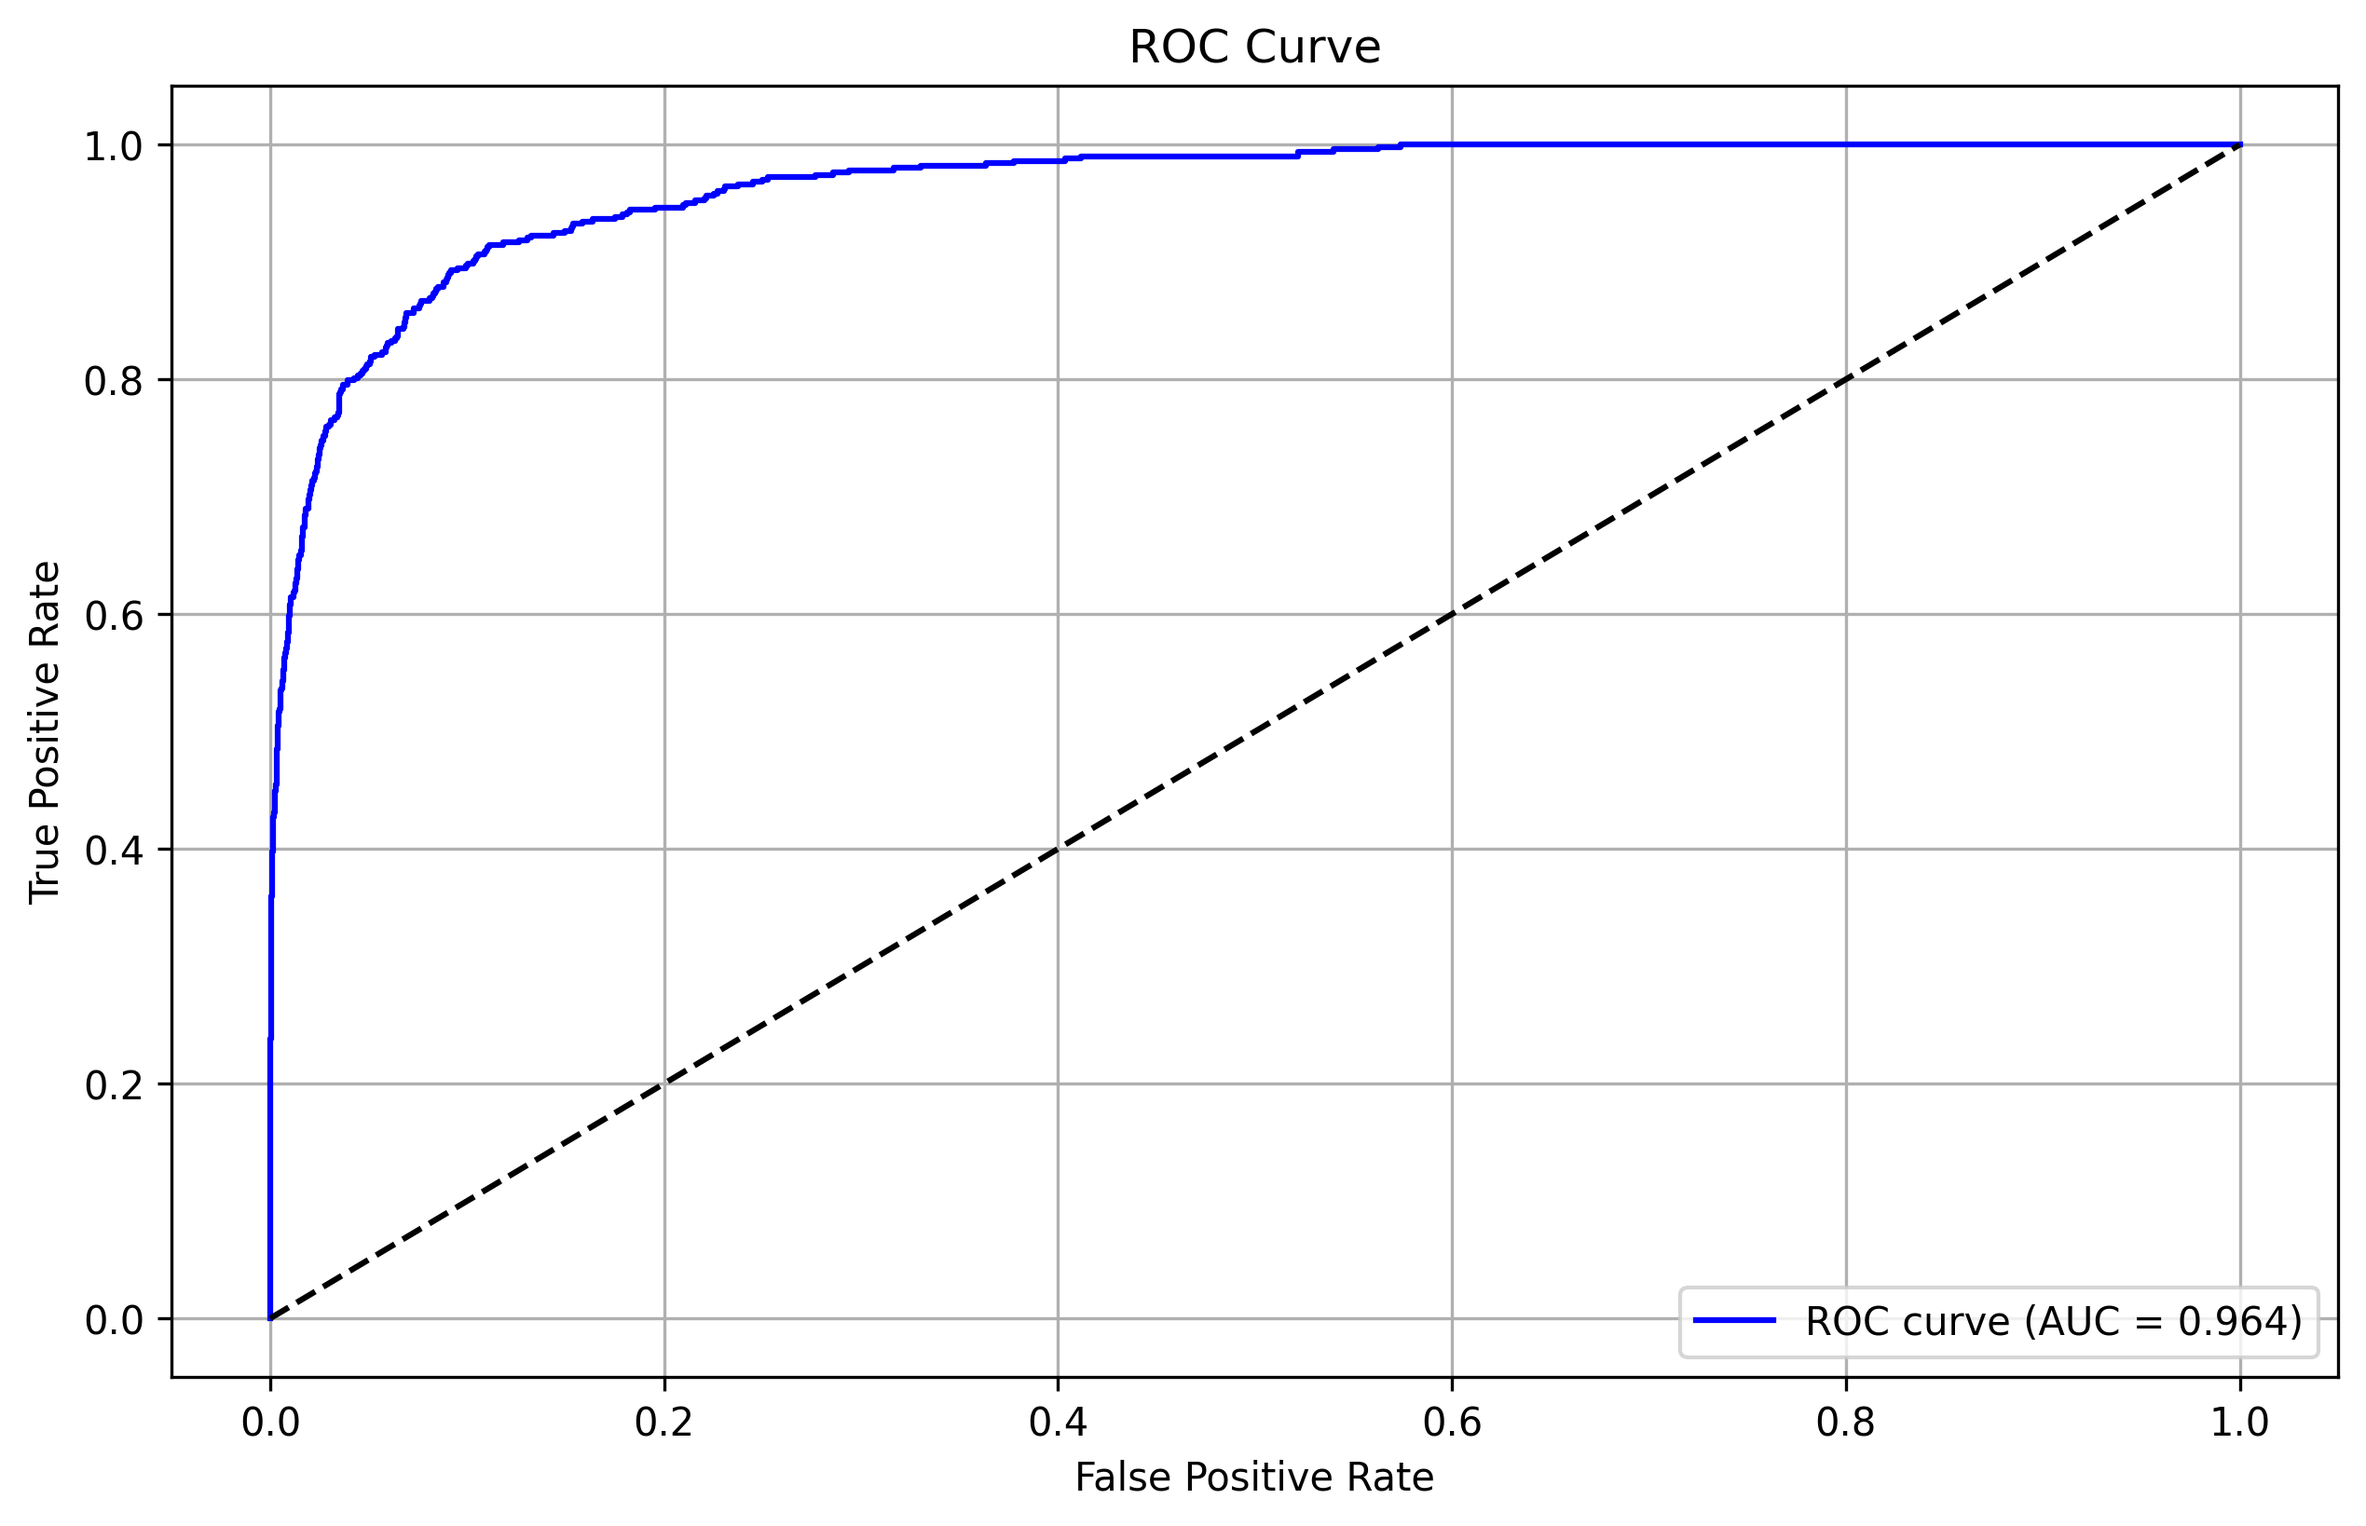
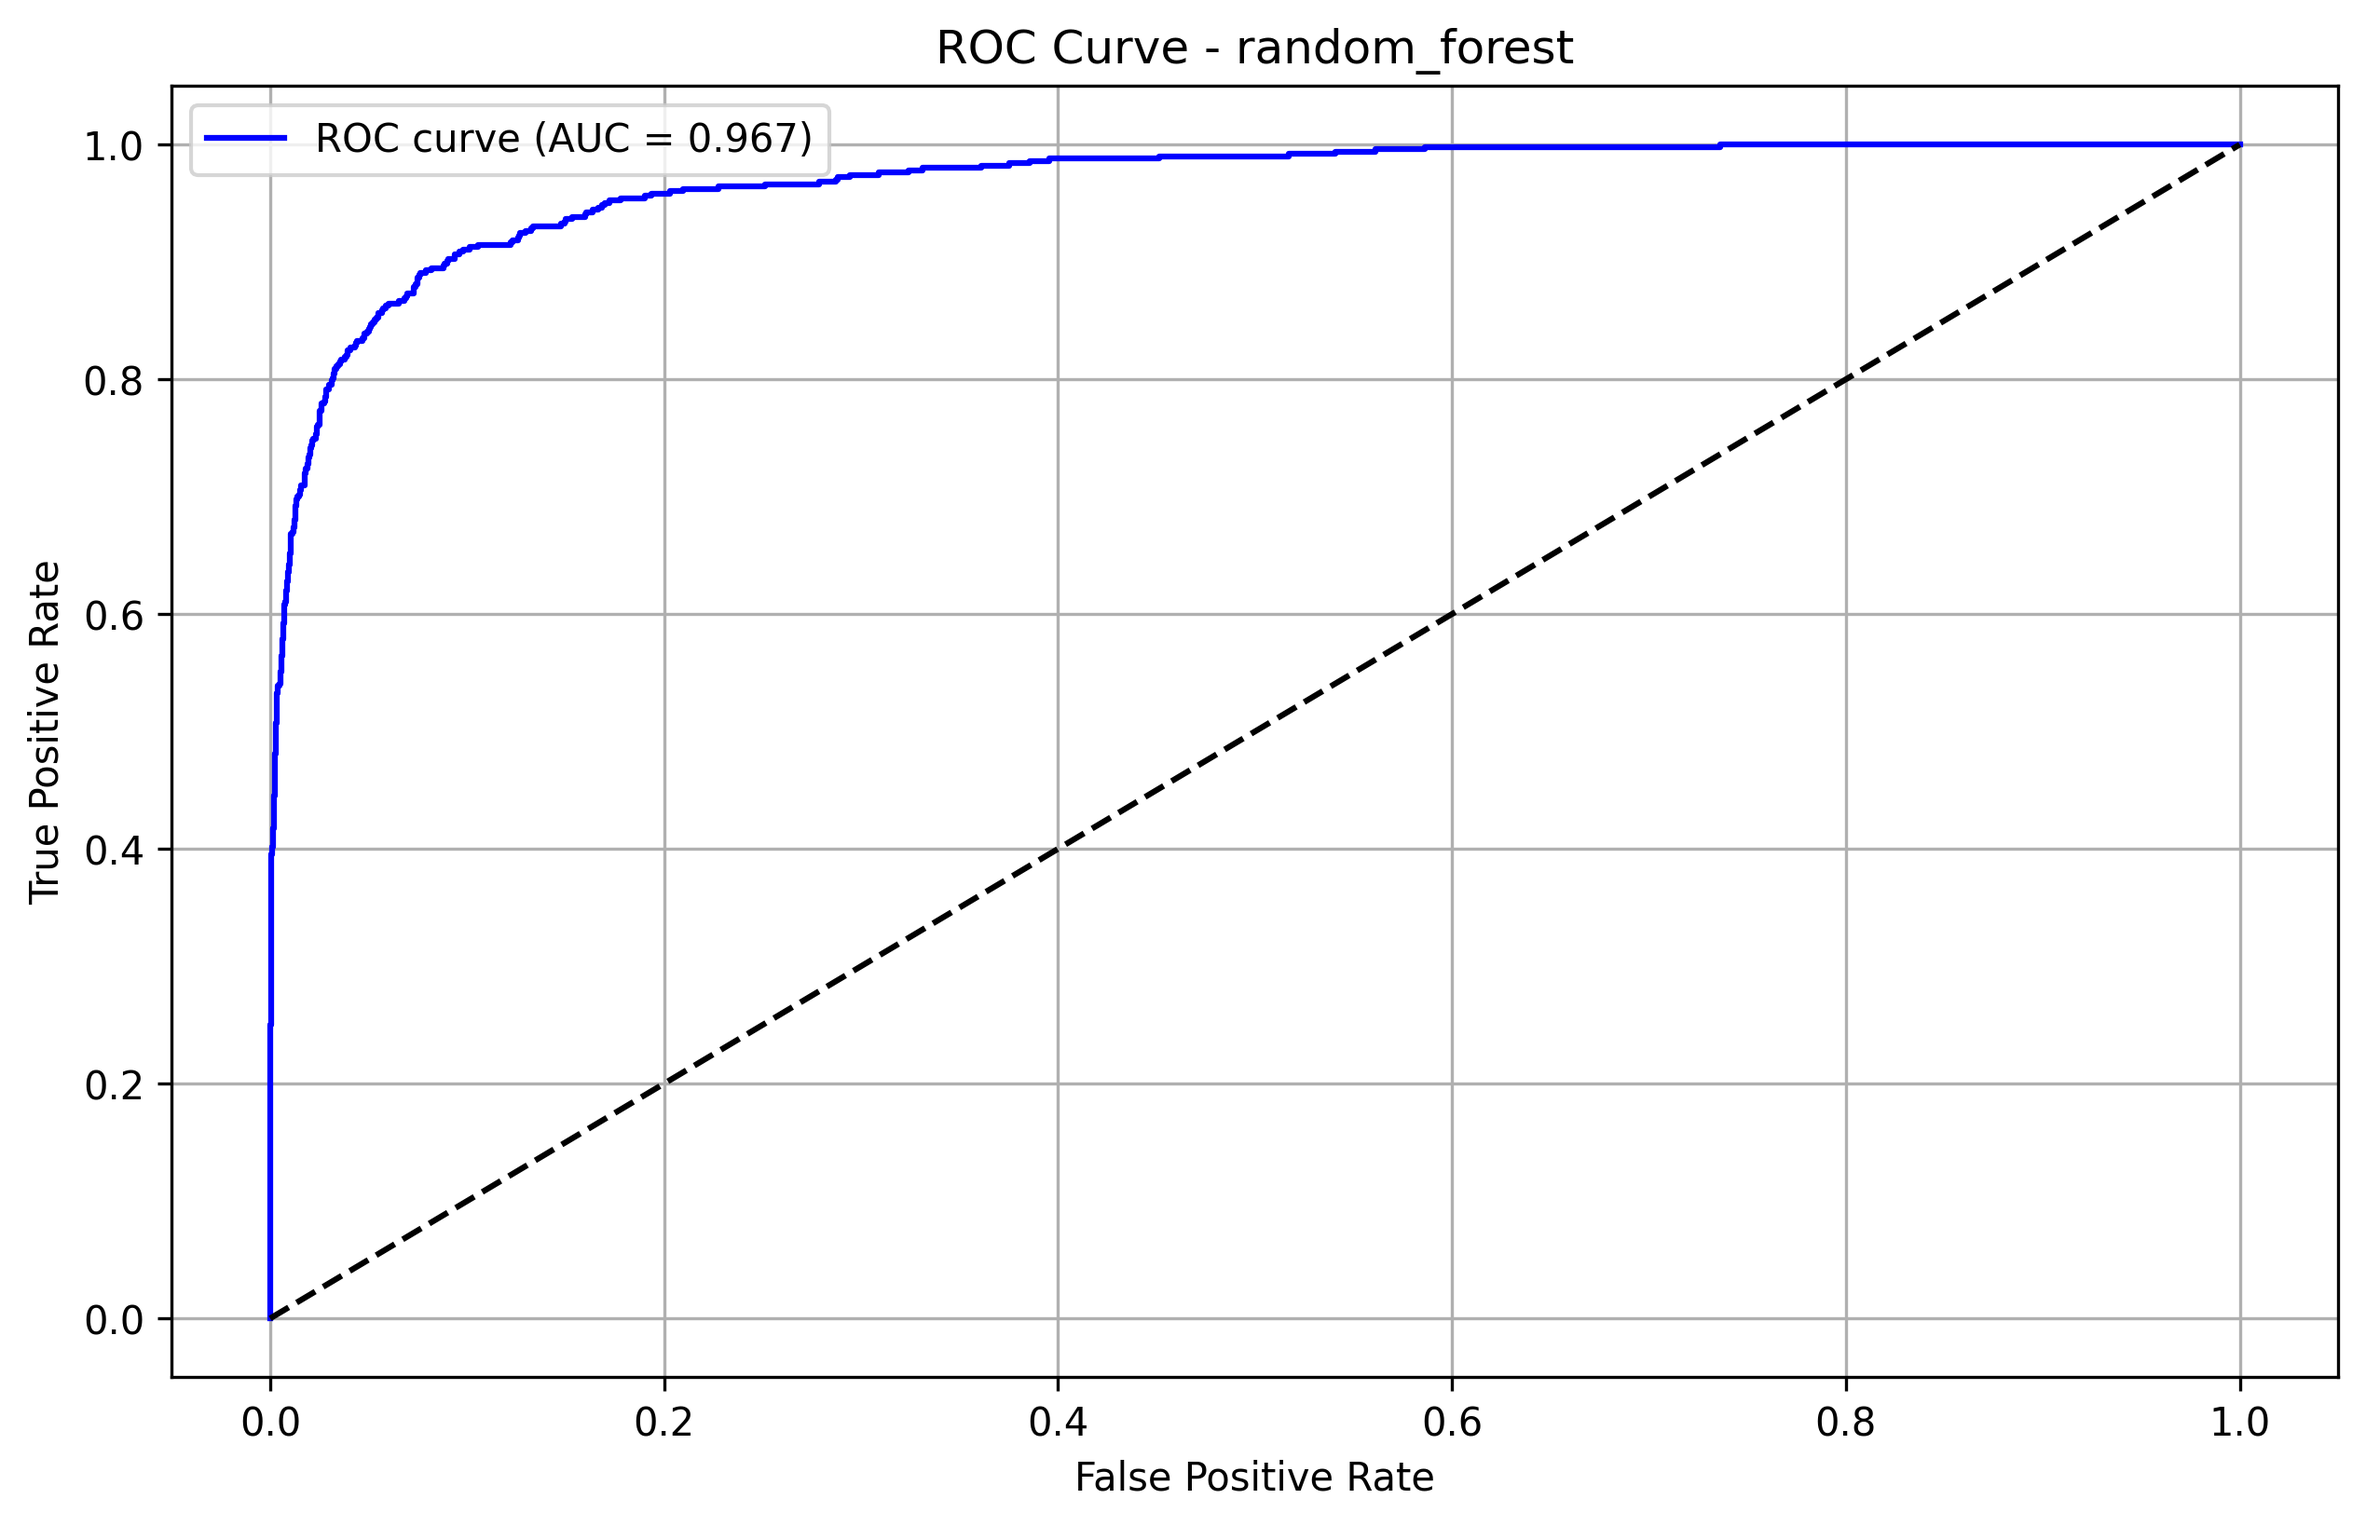
Refactor threshold optimization to evaluate multiple models and return the best one

diff --git a/model/evaluate_optimized_models.py b/model/evaluate_optimized_models.py
@@ -146,33 +146,65 @@ def plot_confusion_matrices(metrics):
     plt.show()
 
 
-def optimize_threshold(model, X_test, y_test):
-    """Find optimal threshold to maximize F1 score."""
-    # Get probability predictions
-    try:
-        y_probs = model.predict_proba(X_test)[:, 1]
+def optimize_threshold(models, metrics, X_test, y_test):
+    """Find optimal threshold to maximize F1 score for each model and return the best."""
+    best_threshold = 0.5
+    best_f1 = 0.0
+    best_model_name = None
+    best_model = None
+    
+    # Try each model to find the one with the best optimized threshold
+    for model_name, model in models.items():
+        try:
+            # Get probability predictions
+            y_probs = model.predict_proba(X_test)[:, 1]
 
-        # Calculate precision, recall, and F1 for different thresholds
-        precisions, recalls, thresholds = precision_recall_curve(y_test, y_probs)
+            # Calculate precision, recall, and F1 for different thresholds
+            precisions, recalls, thresholds = precision_recall_curve(y_test, y_probs)
 
-        # Calculate F1 scores for each threshold
-        f1_scores = 2 * (precisions * recalls) / (precisions + recalls + 1e-9)
+            # Calculate F1 scores for each threshold
+            f1_scores = 2 * (precisions * recalls) / (precisions + recalls + 1e-9)
 
-        # Find threshold with max F1
-        optimal_idx = np.argmax(f1_scores)
-        optimal_threshold = thresholds[optimal_idx] if optimal_idx < len(thresholds) else 0.5
-        best_f1 = f1_scores[optimal_idx]
+            # Find threshold with max F1
+            optimal_idx = np.argmax(f1_scores)
+            optimal_threshold = thresholds[optimal_idx] if optimal_idx < len(thresholds) else 0.5
+            model_best_f1 = f1_scores[optimal_idx]
+            
+            print(f"Model {model_name}: Optimal threshold: {optimal_threshold:.3f} with F1 score: {model_best_f1:.3f}")
+            
+            # Update if this is the best model+threshold combination
+            if model_best_f1 > best_f1:
+                best_f1 = model_best_f1
+                best_threshold = optimal_threshold
+                best_model_name = model_name
+                best_model = model
+                
+        except Exception as e:
+            print(f"Error optimizing threshold for {model_name}: {e}")
+            continue
+    
+    if best_model is not None:
+        print(f"\nBest model found: {best_model_name} with optimal threshold: {best_threshold:.3f} and F1 score: {best_f1:.3f}")
         
-        print(f"Optimal threshold: {optimal_threshold:.3f} with F1 score: {best_f1:.3f}")
-
-        # Plot precision-recall curve
+        # Calculate error counts for best model
+        y_probs = best_model.predict_proba(X_test)[:, 1]
+        y_pred = (y_probs >= best_threshold).astype(int)
+        fp = np.sum((y_test == 0) & (y_pred == 1))
+        fn = np.sum((y_test == 1) & (y_pred == 0))
+        print(f"At threshold={best_threshold:.3f}: False Positives: {fp}, False Negatives: {fn}")
+        
+        # Plot precision-recall curve for best model
+        precisions, recalls, thresholds = precision_recall_curve(y_test, y_probs)
+        f1_scores = 2 * (precisions * recalls) / (precisions + recalls + 1e-9)
+        optimal_idx = np.argmax(f1_scores)
+        
         plt.figure(figsize=(10, 6))
         plt.plot(recalls, precisions, 'b-', label='Precision-Recall curve')
         plt.plot(recalls[optimal_idx], precisions[optimal_idx], 'ro',
-                 label=f'Optimal threshold: {optimal_threshold:.3f}, F1: {best_f1:.3f}')
+                 label=f'Optimal threshold: {best_threshold:.3f}, F1: {best_f1:.3f}')
         plt.xlabel('Recall')
         plt.ylabel('Precision')
-        plt.title('Precision-Recall Curve - Threshold Optimization')
+        plt.title(f'Precision-Recall Curve - {best_model_name}')
         plt.legend(loc='best')
         plt.grid(True)
         plt.savefig(SAVE_PATH / "threshold_optimization.png", dpi=300, bbox_inches='tight')
@@ -187,26 +219,19 @@ def optimize_threshold(model, X_test, y_test):
         plt.plot([0, 1], [0, 1], 'k--')
         plt.xlabel('False Positive Rate')
         plt.ylabel('True Positive Rate')
-        plt.title('ROC Curve')
+        plt.title(f'ROC Curve - {best_model_name}')
         plt.legend(loc='best')
         plt.grid(True)
         plt.savefig(SAVE_PATH / "roc_curve.png", dpi=300, bbox_inches='tight')
         plt.show()
-
-        # Calculate error counts at optimal threshold
-        y_pred = (y_probs >= optimal_threshold).astype(int)
-        fp = np.sum((y_test == 0) & (y_pred == 1))
-        fn = np.sum((y_test == 1) & (y_pred == 0))
-        print(f"At threshold={optimal_threshold:.3f}: False Positives: {fp}, False Negatives: {fn}")
-
-        return optimal_threshold, best_f1
-
-    except Exception as e:
-        print(f"Error optimizing threshold: {e}")
-        return 0.5, None
+        
+        return best_threshold, best_f1, best_model_name, best_model
+    else:
+        print("Could not find optimal threshold for any model")
+        return 0.5, None, None, None
 
 
-def demo_model_usage(threshold=0.5):
+def demo_model_usage(threshold=0.5, best_model_name=None, best_f1=None):
     """Demonstrate how to use the best model for prediction with adjustable threshold."""
     print(f"\n=== Model Usage Demo (Threshold: {threshold:.3f}) ===")
 
@@ -217,9 +242,16 @@ def demo_model_usage(threshold=0.5):
     
     # Find best model based on F1 score
     try:
-        best_model_name = max(metrics.items(), key=lambda x: x[1]['f1'])[0]
-        best_model = models.get(best_model_name)
-        best_score = metrics[best_model_name]['f1']
+        # If we have a best model name from threshold optimization, use it
+        if best_model_name and best_model_name in models:
+            best_model = models.get(best_model_name)
+            best_score = best_f1 if best_f1 else metrics[best_model_name]['f1']
+        else:
+            # Fall back to the original method
+            best_model_name = max(metrics.items(), key=lambda x: x[1]['f1'])[0]
+            best_model = models.get(best_model_name)
+            best_score = metrics[best_model_name]['f1']
+        
         print(f"Best model found: {best_model_name} with F1 score: {best_score:.4f}")
     except (KeyError, ValueError) as e:
         print(f"Error finding best model: {e}")
@@ -369,10 +401,6 @@ def main(custom_threshold=None):
     print("\nPlotting evaluation results...")
     plot_evaluation_results(metrics)
 
-    # Find best model
-    best_model_name = max(metrics.items(), key=lambda x: x[1]['f1'])[0]
-    best_model = models.get(best_model_name)
-
     # Load test data for threshold optimization
     features_path = project_root / "data" / "features_train.csv"
     target_path = project_root / "data" / "train.csv"
@@ -385,13 +413,13 @@ def main(custom_threshold=None):
             y_test = y_df['toxic']
 
             print("\nFinding optimal threshold...")
-            optimal_threshold, best_f1 = optimize_threshold(best_model, X_test, y_test)
+            optimal_threshold, best_f1, best_model_name, best_model = optimize_threshold(models, metrics, X_test, y_test)
             
             # Use custom threshold if provided, otherwise use the optimized one
             threshold = custom_threshold if custom_threshold is not None else optimal_threshold
 
-            # Demo with optimal threshold
-            demo_model_usage(threshold=threshold)
+            # Demo with optimal threshold and best model
+            demo_model_usage(threshold=threshold, best_model_name=best_model_name, best_f1=best_f1)
         except Exception as e:
             print(f"Error during threshold optimization: {e}")
             # Fall back to default threshold
